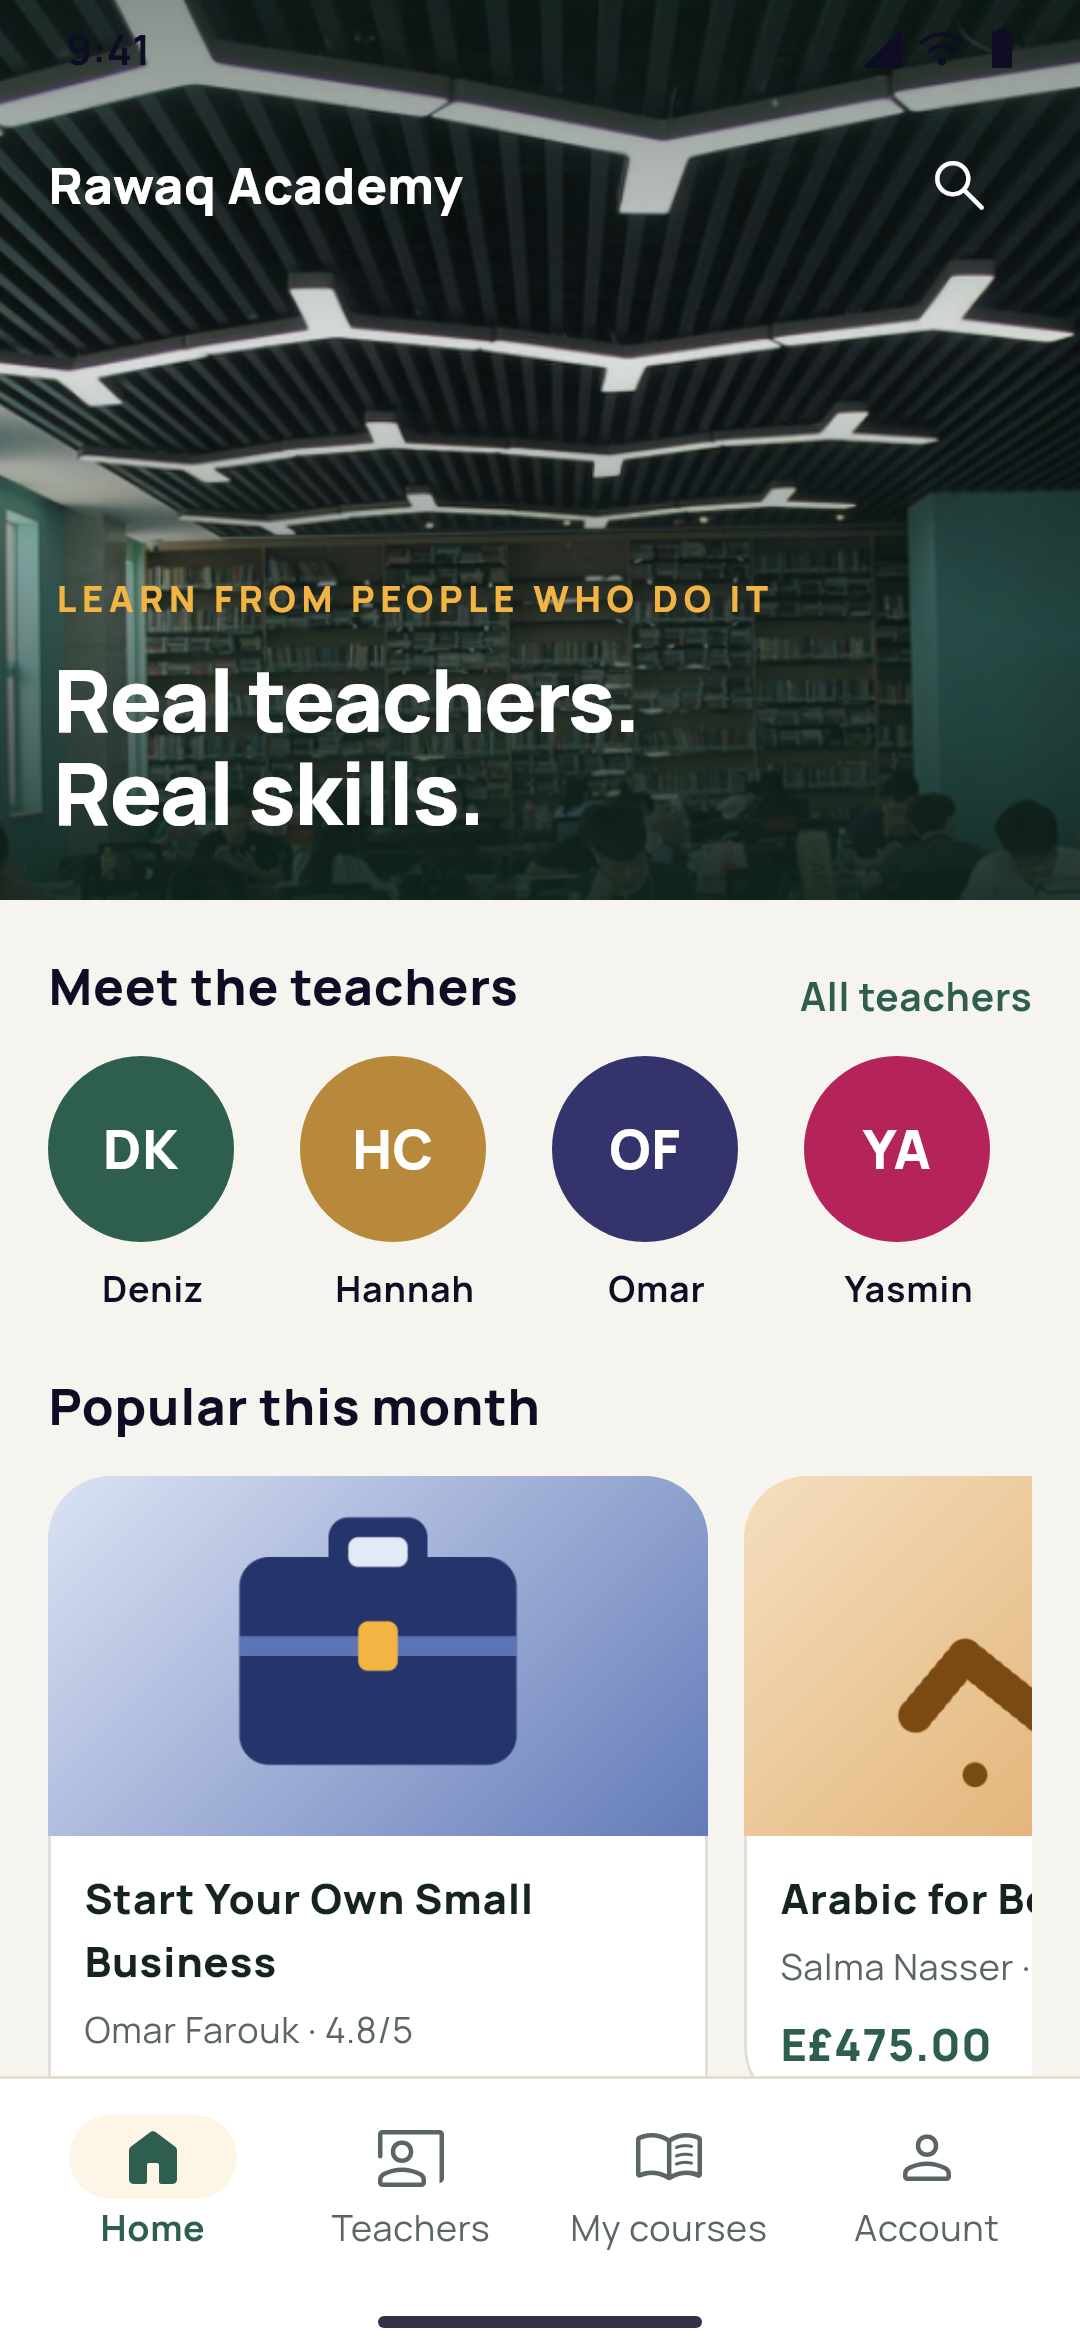
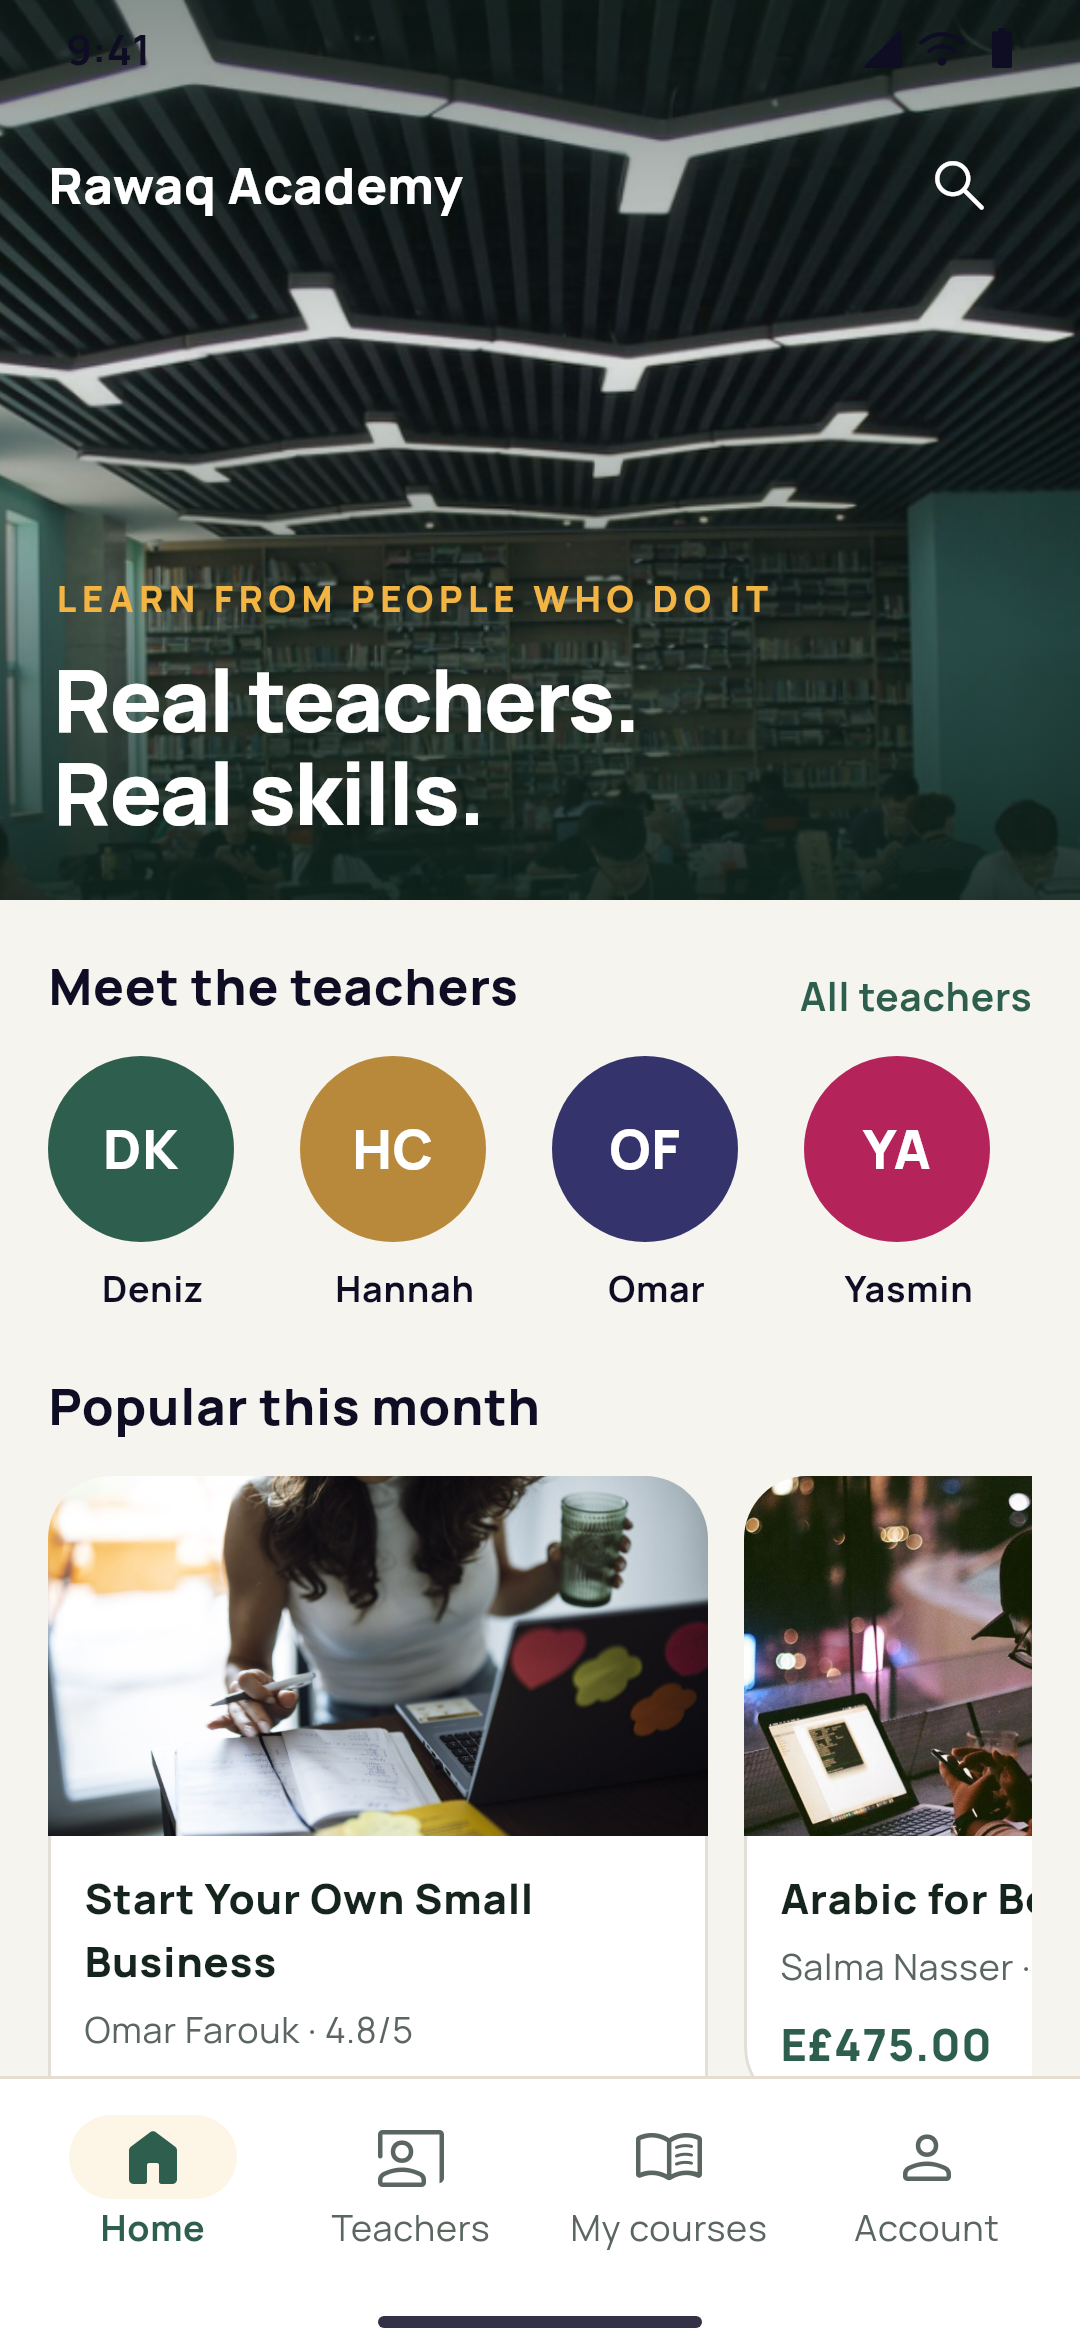
128.7 Rawaq Academy's popular courses in real photos, as its board shows them
The approved Rawaq board shows this month's popular courses on real
photos; the demo drew them (a briefcase, a letter). Start Your Own Small
Business now has the tidy desk with the laptop and notes, Arabic for
Beginners the teacher live on camera: the board's own photos, the academy
story's (public/stories/academy, credited on the story page), saved as the
account's files the way Ufuq Academy's courses are (lib/demo/academy-photos.ts,
through savePicture), so the demo app, a project started from it and
Studio's canvas show them. The website's rawaq-home drawn again. The other
new homes (Sofra Eats, Zad, Sahm Express, Masar Rides, Lamha Taxi, Nakhla
School, Ufuq Academy) already show photos wherever their boards have one.

Claude-Session: https://claude.ai/code/session_01MSAbbHjPLVdK4KhggTQ4Tg

Changed region(s): [[0.0306, 0.6239, 0.9778, 0.8111]]

diff --git a/platform/web/src/lib/demo/teachers.ts b/platform/web/src/lib/demo/teachers.ts
@@ -4,6 +4,7 @@ import { SAMPLE_COURSES, SAMPLE_TEACHERS, START_TOPIC, type SampleCourse } from 
 import { samplePrice } from "../samples/money";
 import { DEMO_RETENTION_HOURS, DEMO_SIGN_IN } from "./constants";
 import type { PictureName } from "./pictures";
+import type { AcademyPhoto } from "./academy-photos";
 
 /**
  * 110.5 Rawaq Academy, Studio's academy with many teachers (105.3): seven
@@ -76,9 +77,16 @@ export interface AcademyCourse {
   level: string;
   category: string;
   priceCents: number;
-  picture: PictureName;
+  /** 128.7 A real photo where the approved board shows one (lib/demo/academy-photos.ts), else its drawing. */
+  picture: PictureName | AcademyPhoto;
   topics: SampleCourse["topics"];
 }
+
+/** 128.7 The covers of Rawaq Academy's popular courses as its approved board shows them: the academy story's photos, saved as Ufuq Academy's are. */
+const ACADEMY_COVERS: Partial<Record<string, AcademyPhoto>> = {
+  "Start Your Own Small Business": "academy-desk",
+  "Arabic for Beginners": "academy-live",
+};
 
 /** The sample courses, each the course of the teacher with its instructor's name. */
 export const ACADEMY_COURSES: AcademyCourse[] = SAMPLE_COURSES.courses.map((c) => ({
@@ -88,7 +96,7 @@ export const ACADEMY_COURSES: AcademyCourse[] = SAMPLE_COURSES.courses.map((c) =
   level: c.level.en,
   category: c.category,
   priceCents: samplePrice(c.priceCents, SAMPLE_COURSES.currency, TEACHERS_CURRENCY),
-  picture: c.picture,
+  picture: ACADEMY_COVERS[c.title.en] ?? c.picture,
   topics: c.topics.length ? c.topics : START_TOPIC.en,
 }));
 

diff --git a/mobile/test/screenshots/support/studio_demo.dart b/mobile/test/screenshots/support/studio_demo.dart
@@ -540,6 +540,12 @@ DemoApi sofraStudioApi() {
 
 /// The photos Sofra Eats's screens show besides its pages' (its kitchens'
 /// covers and dishes).
+/// 128.7 The photos of Rawaq Academy's popular courses its home shows.
+const rawaqPhotos = [
+  '/stories/academy/academy-desk.jpg',
+  '/stories/academy/academy-live.jpg',
+];
+
 const sofraPhotos = [
   '/demo-photos/mixed-grill.jpg',
   '/demo-photos/margherita.jpg',
@@ -762,7 +768,12 @@ DemoApi rawaqStudioApi({bool staffApp = false}) {
     id,
     title,
     teacher,
-    image: demo.picture(picture),
+    // 128.7 The popular courses' real photos, the academy story's
+    // (platform/web/src/lib/demo/teachers.ts ACADEMY_COVERS), the others'
+    // drawings.
+    image: picture.startsWith('academy-')
+        ? '${demo.base}/stories/academy/$picture.jpg'
+        : demo.picture(picture),
     price: price,
     action: {'type': 'course', 'course_id': id},
   );
@@ -804,14 +815,14 @@ DemoApi rawaqStudioApi({bool staffApp = false}) {
           'Start Your Own Small Business',
           'Omar Farouk · 4.8/5',
           'E£630.00',
-          'course-business',
+          'academy-desk',
         ),
         course(
           7,
           'Arabic for Beginners',
           'Salma Nasser · 4.9/5',
           'E£475.00',
-          'course-arabic',
+          'academy-live',
         ),
         course(
           6,

diff --git a/platform/web/tests/unit/zad-photos.test.ts b/platform/web/tests/unit/zad-photos.test.ts
@@ -2,6 +2,8 @@ import { readFileSync, readdirSync } from "node:fs";
 import path from "node:path";
 import { describe, expect, it } from "vitest";
 import { ZAD_PHOTOS } from "@/lib/demo/zad-photos";
+import { isAcademyPhoto } from "@/lib/demo/academy-photos";
+import { ACADEMY_COURSES } from "@/lib/demo/teachers";
 
 const dir = path.resolve(__dirname, "../../public/demo-photos");
 const FREE = /^(CC0|Public domain|CC BY(-SA)? \d\.\d)$/;
@@ -26,5 +28,12 @@ describe("Zad's photos", () => {
       expect(c!.license, name).toMatch(FREE);
       expect(c!.page, name).toMatch(/^https:\/\/commons\.wikimedia\.org\/wiki\/File:/);
     }
+  });
+
+  it("128.7 give Rawaq Academy's popular courses their covers as its approved board has them, the academy story's photos", () => {
+    const cover = (title: string) => ACADEMY_COURSES.find((c) => c.title === title)!.picture;
+    expect(cover("Start Your Own Small Business")).toBe("academy-desk");
+    expect(cover("Arabic for Beginners")).toBe("academy-live");
+    expect(isAcademyPhoto(cover("Arabic for Beginners"))).toBe(true);
   });
 });

diff --git a/mobile/test/screenshots/support/screens.dart b/mobile/test/screenshots/support/screens.dart
@@ -1054,14 +1054,14 @@ final websiteShots = <Shot>[
     api: () => rawaqStudioApi(staffApp: true),
     appName: 'Rawaq Academy',
     appType: AppType.lms,
-    prepare: StudioDemo.rawaq.prepare,
+    prepare: (tester) => StudioDemo.rawaq.prepare(tester, rawaqPhotos),
   ),
   Shot(
     'rawaq-teacher',
     api: () => rawaqStudioApi(staffApp: true),
     appName: 'Rawaq Academy',
     appType: AppType.lms,
-    prepare: StudioDemo.rawaq.prepare,
+    prepare: (tester) => StudioDemo.rawaq.prepare(tester, rawaqPhotos),
     location: '/teachers/1',
   ),
   Shot(
@@ -1069,7 +1069,7 @@ final websiteShots = <Shot>[
     api: rawaqStudioApi,
     appName: 'Rawaq Academy',
     appType: AppType.lms,
-    prepare: StudioDemo.rawaq.prepare,
+    prepare: (tester) => StudioDemo.rawaq.prepare(tester, rawaqPhotos),
     after: (tester, router) async => router.go('/teacher-desk'),
   ),
 ];

diff --git a/docs/ROADMAP.md b/docs/ROADMAP.md
@@ -3168,5 +3168,5 @@ The owner (13 November) approved new home screens for the eight Studio demos and
 | [x] | 128.4 Masar Rides (rides) as approved (the Masar board), light and dark: the city at night with the person's greeting, "Where to tonight?" and a frosted search with Now over the photo, the saved places (Home, Office, Airport), the driver on the way (their photo, car, rating and plate, a call button) and the car classes (Economy chosen, Comfort, Van); its Ride tab is this page (Ride, My rides, Account across the bottom), the ride screen a page of its own with the driver on the way over it and My rides with the ride home at night; Manrope as the boards; its own template of the rides kind ("Ride at night") | `studio-demo-templates.test.ts`, `studio-templates.test.ts`, `phase128_studio_covers_test.dart`, `website_screenshots_test.dart` |
 | [x] | 128.5 Lamha Taxi (taxi) as approved (the Lamha board), light and dark: the drawn map with the free taxis around the person (live in the app, the board's in Studio) and their own dot, the name on a navy pill, the account and notifications as round buttons, and a sheet over the map's foot with "A taxi in a glance.", where to, the taxis near the person and how far the nearest is, the airport's fixed fare over a photo and "Book the nearest taxi"; no bar under the home, as approved (My rides and the account keep the dark island), My rides with a ride at night from the back seat; its own template of the rides kind ("Taxi map") | `studio-demo-templates.test.ts`, `studio-templates.test.ts`, `phase128_studio_covers_test.dart`, `website_screenshots_test.dart` |
 | [x] | 128.6 Nakhla School, the school's home as approved (`lib/studio/school-home.ts`, the `school_today` template every school can start from): the school's photo under a scrim with the app's name and the notifications over it (a transparent header now lies over the page's first element from the very top, with the app's name, in the app as on Studio's canvas) and the family's greeting with today's date at its foot ("Good morning, Lina's family"); the children as chips (Lina · 5A, Adam · 3B) and today's card for the chosen child, in at the gate, the lesson now and the next, the bus home, from the family's own day (a new Studio element, `school`: the greeting, the children or today, only in school projects, drawn by the app from `GET /parent/me` and the child's day, nothing signed out or with nothing to show; `lib/pages/types.ts` `StudioSchool`, the contract's `StudioSchool`, `components/studio/school.tsx`, `mobile/lib/modules/school/widgets/studio_school.dart`); this week at school as photo tiles with captions; a photo's shade as a scrim, stronger at its top or foot (the one `scrim` 128.1 brought, set in the inspector); new generic ready sections for every project: a photo with words, photo tiles, people in circles (`lib/studio/photo-sections.ts`); its pages after the home in the board's colours, the School tab's under the school gate's photo (`lib/studio/demo-designs`, with the other premium demos), its sign-in in the premium look over the school, its bar the board's, in Manrope (bundled with the app); a project started from it gets all of it; the platform's photos of its stories and demos are pictures a page may use; in English, Arabic and Turkish, right to left | `studio-demo-templates.test.ts`, `studio-canvas-layout.test.ts`, `start-picker.test.ts`, `phase128_studio_school_test.dart`, `website_screenshots_test.dart` |
-| [x] | 128.7 Rawaq Academy, the teachers' home as approved (`lib/studio/teachers-home.ts`, the `teachers_photo` template for every academy with many teachers): the library under a scrim, "Learn from people who do it · Real teachers. Real skills.", the search over it, the teachers to meet in circles, this month's popular courses as cards with their photo, teacher with the course's rating (a course in a Studio list now says "Omar Farouk · 4.8/5" once rated) and price; its tabs as the board has them (Home, Teachers, My courses, Account), the Teachers and My courses pages under the board's photos, its courses, lessons, Explore, My courses and cart in the premium screens' looks in its own green and gold, its sign-in in the premium look over the library and the student's card in the account, the board's bar, in Manrope | `studio-demo-templates.test.ts`, `studio-canvas-layout.test.ts`, `website_screenshots_test.dart` |
+| [x] | 128.7 Rawaq Academy, the teachers' home as approved (`lib/studio/teachers-home.ts`, the `teachers_photo` template for every academy with many teachers): the library under a scrim, "Learn from people who do it · Real teachers. Real skills.", the search over it, the teachers to meet in circles, this month's popular courses as cards with their photo, teacher with the course's rating (a course in a Studio list now says "Omar Farouk · 4.8/5" once rated) and price; its tabs as the board has them (Home, Teachers, My courses, Account), the Teachers and My courses pages under the board's photos, its courses, lessons, Explore, My courses and cart in the premium screens' looks in its own green and gold, its sign-in in the premium look over the library and the student's card in the account, the board's bar, in Manrope; the popular courses' covers as the board has them, in real photos (Start Your Own Small Business the desk with the laptop and notes, Arabic for Beginners the teacher live on camera: the academy story's photos, saved as the account's files as Ufuq Academy's courses' are, `lib/demo/academy-photos.ts`) | `studio-demo-templates.test.ts`, `studio-canvas-layout.test.ts`, `website_screenshots_test.dart`, `zad-photos.test.ts` |
 | [x] | 128.8 Ufuq Academy (the premium academy, `academy_premium`) as its approved board, light and dark: the home's greeting with today's date and the notifications on a round button; the course the student is taking over its photo (`StudioLearning.style` `photo`: the element's picture, else the course's, under a dark scrim, the lesson and the minutes left on one chip, how far they are in gold and a round play button), their streak as one figure beside their next live class on a photo ("LIVE AT 19:30" in gold over its name), and "Picked for you" as photo cards with the teacher and the rating (a card's `rating` element: its own "·", a star drawn as an icon and `Item.rating`, from the hosted API and the WordPress plugin); the bar a floating navy pill with the open tab on gold, light by night (the floating pill `float` 128.1 brought, one design for Sofra Eats and Ufuq: 62 high, the page going on under it); Manrope, Arabic in Alexandria; `dark_border_color` for a border by night; Studio's canvas and inspector draw and edit all of it (the card's look, the rating, the border by night) in English, Arabic and Turkish. Its other pages in the same language: the course covers as the academy story's real photos (Explore, a course, My courses, the cart, the lesson's next card), the sign-in over a photo, the account's card and this week's learning in the main colour (light by night), the cart, follow, lesson and learning time unchanged. The demo's courses are Ufuq's own (`lib/demo/ufuq-courses.ts`, Arabic calligraphy first, each with its photo saved as the account's file, `lib/demo/academy-photos.ts`), a project started from the demo gets them as samples; the website's pictures of the premium academy drawn again from the app, with the home by night (`premium-home-dark`) | `studio-academy-template.test.ts`, `studio-canvas-layout.test.ts`, `studio-demo-templates.test.ts`, `studio-project-templates.test.ts`, `website_screenshots_test.dart`, `phase128_ufuq_home_test.dart`, `StudioUfuqHome1288Test.php` |
